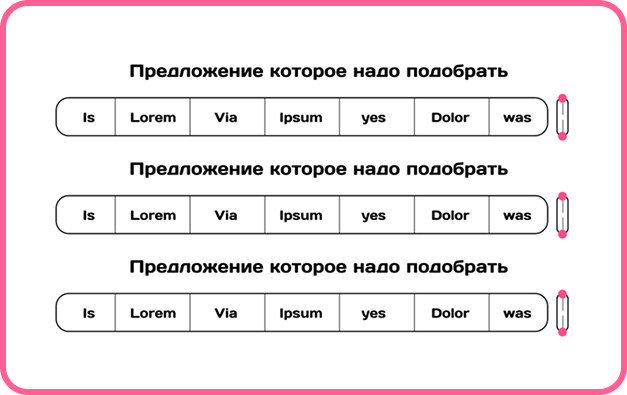
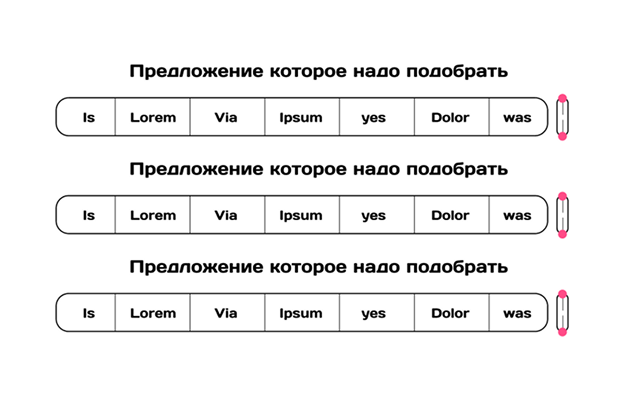
feat(lesson-info): enhance image display with new styles and container for lesson images

Changed region(s): [[0.0, 0.0, 1.0, 1.0]]

diff --git a/src/widgets/lesson-info/ui/LessonInfo/LessonInfo.tsx b/src/widgets/lesson-info/ui/LessonInfo/LessonInfo.tsx
@@ -77,10 +77,13 @@ export const LevelInfo = ({
   return (
     <div className={s[lessonType]}>
       <div className={s.leftBlock}>
-        <img
-          src={`/public/assets/img/${lessonType}.png`}
-          className={s.image}
-        />
+        <div className={s.imageContainer}>
+          <img
+            src={`/public/assets/img/${lessonType}.png`}
+            className={s.image}
+          />
+        </div>
+
         <P fontSize={16} type={textType}>
           {lessonDescription[lessonType].description}
         </P>
@@ -146,6 +149,7 @@ export const LevelInfo = ({
             backgroundColor={'white'}
             textColor={'black'}
             padding={'0.375rem 2rem'}
+            width={'100%'}
           >
             Start Easy
           </Button>
@@ -153,6 +157,7 @@ export const LevelInfo = ({
             backgroundColor={'white'}
             textColor={'black'}
             padding={'0.375rem 2rem'}
+            width={'100%'}
           >
             Start Hard
           </Button>

diff --git a/src/widgets/lesson-info/ui/LessonInfo/LessonInfo.module.scss b/src/widgets/lesson-info/ui/LessonInfo/LessonInfo.module.scss
@@ -85,7 +85,22 @@
   gap: 0.75rem;
 }
 
+.imageContainer {
+  display: flex;
+  justify-content: center;
+  align-items: center;
+
+  background: $white;
+  width: 100%;
+  height: 100%;
+
+  border-radius: 1.75rem;
+}
+
 .image {
   height: 66%;
   width: 100%;
+
+  max-width: 480px;
+  max-height: 297px;
 }
